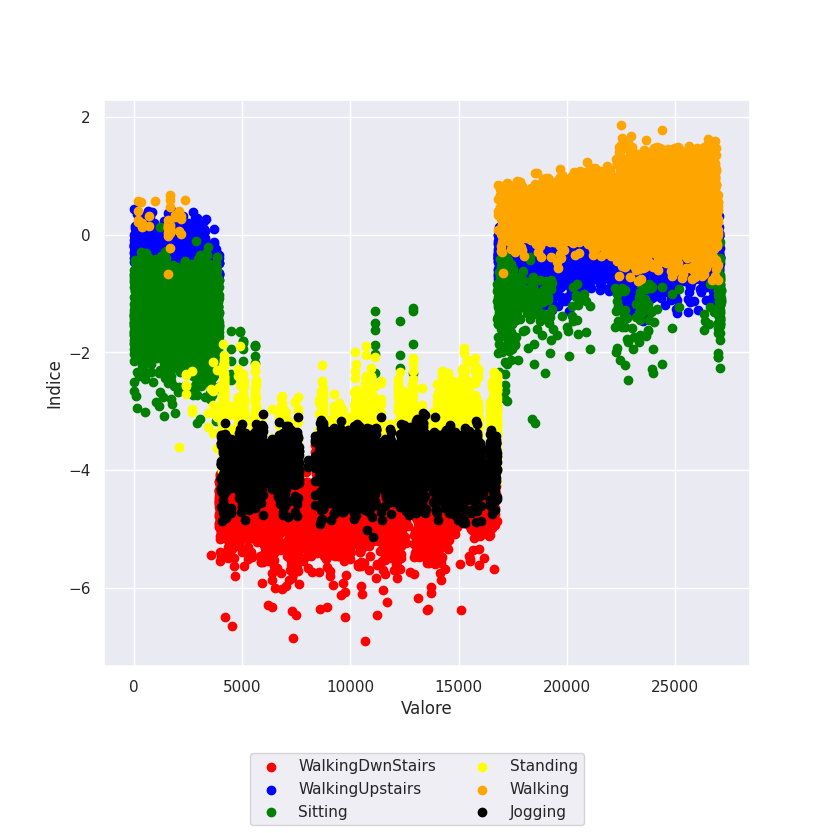
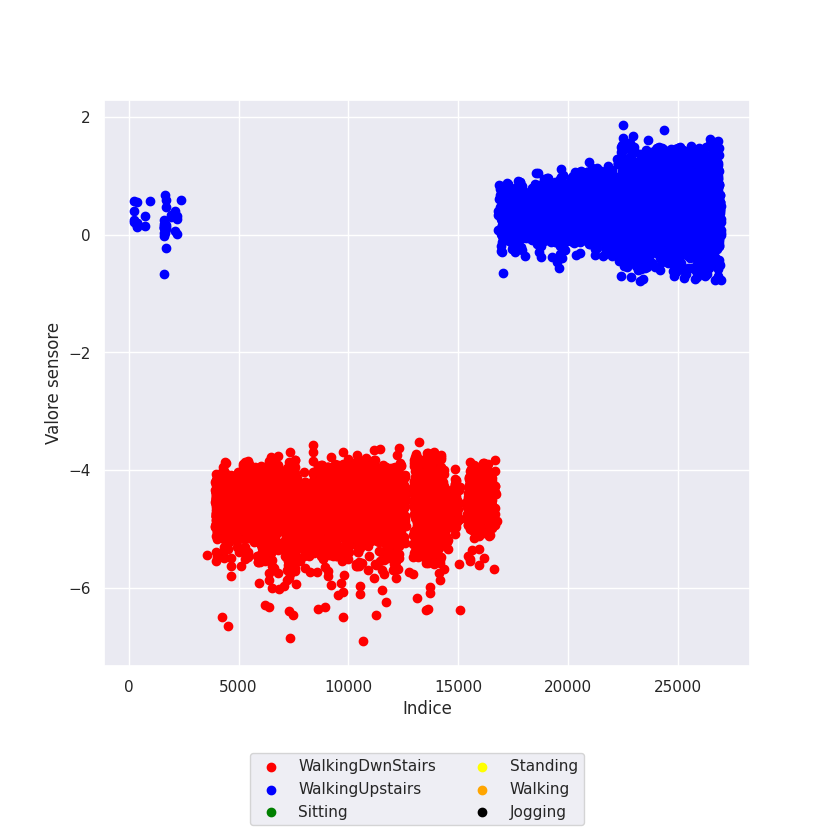
aggiunte spiegazioni sul funzionamento delle classi e grafici riguardanti vecchie esecuzioni degli HMMs

diff --git a/com/markov.py b/com/markov.py
@@ -6,7 +6,6 @@ from scipy import stats as ss
 
 from utility import *
 
-ylabel = 'Indice'
 filename1 = absPath_ + '/immagine/grafico.png'
 filename2 = absPath_ + '/immagine/graficoDistribuzione.png'
 
@@ -15,19 +14,34 @@ mydpi = 96
 
 class HiddeMarkovModels:
 
-    def __init__(self, nSamples):
-        self.ds = Dataset(trainset)
+    def __init__(self, nSamples, dataset_):
+        """
+        nel costruttore della classe viene caricato il dataset che verrà utilizzato
+
+        :param nSamples: int, indica il numero di samples che devono essere utilizzati per la generazione degli HMM
+        :param dataset_: string, indica il nome del dataset che verrà utilizzato dal modello
+        """
+
+        self.ds = Dataset(dataset_)
         self.data = self.ds.toList()
         self.logdata = np.log(self.data)
+        self.nSamples = nSamples
 
+    def train(self):
+        """
+        Metodo di train in cui viene creato il modello e viene allenato sul dataset caricato durante il costruttore
+        :return:
+        """
         # effettua il fitting dei modelli sui dati caricati dal dataset
         print('Creazione del modello e fitting dei dati...')
         self.model = GaussianHMM(n_components=6, n_iter=1000).fit(np.reshape(self.logdata, [len(self.logdata), 1]))
         print('fine fitting')
+
         # classificazione di ogni osservazione come stato 1 o 2 (al momento riconosce solo un tipo di attività)
         print('creazione hidden states')
         self.hidden_states = self.model.predict(np.reshape(self.logdata, [len(self.logdata), 1]))
         print('fine creazione hidden states')
+
         # trova i parametri di un HMM Gaussiano
         self.mus = np.array(self.model.means_)
         self.sigmas = np.array(np.sqrt(np.array([np.diag(self.model.covars_[0]), np.diag(self.model.covars_[1])])))
@@ -37,7 +51,7 @@ class HiddeMarkovModels:
         self.logProb = self.model.score(np.reshape(self.data, [len(self.data), 1]))
 
         # genera nSamples dagli HMM Gaussiani
-        self.samples = self.model.sample(nSamples)
+        self.samples = self.model.sample(self.nSamples)
 
         # riorganizza i mu, i sigma e P in modo che la prima colonna contenga i lower mean (se non già presenti)
         if self.mus[0] > self.mus[1]:
@@ -47,6 +61,14 @@ class HiddeMarkovModels:
             self.hidden_states = 1 - self.hidden_states
 
     def plotScatter(self):
+        """
+        crea un grafico scatter in cui vengono plottati i dati del dataset (asse x = posizione del dato plottato nel dataset,
+        asse y = valore registrato dal sensore stesso) e con il colore del punto viene indicato la categoria di appartenenza
+        di quel dato secondo il sistema
+        Infine salva il grafico
+
+        :return:
+        """
         sns.set()
         fig = plt.figure()
         ax = fig.add_subplot(111)
@@ -74,8 +96,8 @@ class HiddeMarkovModels:
         # decommentare per congiungere tutti i punti sul grafico
         # ax.plot(xs, self.logdata, c='k')
 
-        ax.set_xlabel('Valore')
-        ax.set_ylabel(ylabel)
+        ax.set_xlabel('Indice')
+        ax.set_ylabel('Valore sensore')
         fig.subplots_adjust(bottom=0.2)
         handles, labels = plt.gca().get_legend_handles_labels()
         fig.legend(handles, labels, loc='lower center', ncol=2, frameon=True)
@@ -84,6 +106,11 @@ class HiddeMarkovModels:
         fig.clf()
 
     def plotDistribution(self):
+        """
+        crea il grafico di distribuzione del modello utilizzando i valori mu e sigma dello stesso, teoricamente dovrebbero uscire delle gaussiane,
+        una per ogni hidden state e infine una funzione che comprende tutte le gaussiane caricate
+        :return:
+        """
         # calcolo della distribuzione stazionaria
         eigenvals, eigenvecs = np.linalg.eig(np.transpose(self.P))
         one_eigval = np.argmin(np.abs(eigenvals - 1))
@@ -95,20 +122,32 @@ class HiddeMarkovModels:
         x_1 = np.linspace(self.mus[1] - 4 * self.sigmas[1], self.mus[1] + 4 * self.sigmas[1], 10000)
         fx_1 = pi[1] * ss.norm.pdf(x_1, self.mus[1], self.sigmas[1])
 
+        # x_2 = np.linspace(self.mus[2] - 4 * self.sigmas[2], self.mus[2] + 4 * self.sigmas[2], 10000)
+        # fx_2 = pi[2] * ss.norm.pdf(x_2, self.mus[2], self.sigmas[2])
+
+        # x_3= np.linspace(self.mus[3] - 4 * self.sigmas[3], self.mus[3] + 4 * self.sigmas[1], 10000)
+        # fx_3 = pi[3] * ss.norm.pdf(x_3, self.mus[3], self.sigmas[3])
+
+        # x_4= np.linspace(self.mus[4] - 4 * self.sigmas[4], self.mus[4] + 4 * self.sigmas[4], 10000)
+        # fx_4 = pi[4] * ss.norm.pdf(x_4, self.mus[4], self.sigmas[4])
+
+        # x_5 = np.linspace(self.mus[5] - 4 * self.sigmas[5], self.mus[5] + 4 * self.sigmas[1], 10000)
+        # fx_5 = pi[5] * ss.norm.pdf(x_5, self.mus[5], self.sigmas[5])
+
         x = np.linspace(self.mus[0] - 4 * self.sigmas[0], self.mus[1] + 4 * self.sigmas[1], 10000)
-        fx = pi[0] * ss.norm.pdf(x, self.mus[0], self.sigmas[0]) + \
-             pi[1] * ss.norm.pdf(x, self.mus[1], self.sigmas[1])
+        fx = pi[0] * ss.norm.pdf(x, self.mus[0], self.sigmas[0]) + pi[1] * ss.norm.pdf(x, self.mus[1], self.sigmas[1])
 
         sns.set()
         fig = plt.figure()
         ax = fig.add_subplot(111)
         ax.hist(self.logdata, color='k', alpha=0.5, density=True)
-        l1, = ax.plot(x_0, fx_0, c='r', linewidth=2, label='WalkingDwnStairs Distn')
-        l2, = ax.plot(x_1, fx_1, c='b', linewidth=2, label='NotWalkingDwnStairs Distn')
-        l3, = ax.plot(x, fx, c='k', linewidth=2, label='Combined State Distn')
-        l4, = ax.plot(x_0, fx_0, c='r', linewidth=2, label='WalkingDwnStairs Distn')
-        l5, = ax.plot(x_1, fx_1, c='b', linewidth=2, label='NotWalkingDwnStairs Distn')
-        l6, = ax.plot(x, fx, c='k', linewidth=2, label='Combined State Distn')
+        l1, = ax.plot(x_0, fx_0, c='red', linewidth=2, label='WalkingDwnStairs Distn')
+        l2, = ax.plot(x_1, fx_1, c='blue', linewidth=2, label='WalkingUpStairs Distn')
+        # l3, = ax.plot(x_2, fx_2, c='green', linewidth=2, label='Sitting Distn')
+        # l4, = ax.plot(x_3, fx_3, c='yellow', linewidth=2, label='Standing Distn')
+        # l5, = ax.plot(x_4, fx_4, c='orange', linewidth=2, label='Walking Distn')
+        # l6, = ax.plot(x_5, fx_5, c='black', linewidth=2, label='Jogging Distn')
+        l7, = ax.plot(x, fx, c='cyan', linewidth=2, label='Combined Distn')
 
         fig.subplots_adjust(bottom=0.15)
         handles, labels = plt.gca().get_legend_handles_labels()
@@ -119,6 +158,7 @@ class HiddeMarkovModels:
 
 
 if __name__ == '__main__':
-    hmm = HiddeMarkovModels(100)
+    hmm = HiddeMarkovModels(100, trainset)
+    hmm.train()
     hmm.plotScatter()
     hmm.plotDistribution()

diff --git a/com/utility.py b/com/utility.py
@@ -41,6 +41,10 @@ absPath_ = os.getcwd()
 class Dataset:
 
     def __init__(self, choice):
+        """
+        costruttore della classe Dataset
+        :param choice: string, indica il percorso da utilizzare per caricare il dataset che si è scelto
+        """
         print('Carico il Dataset...')
         self.datasetPath = absPath_ + choice
         # print(self.datasetPath)
@@ -51,28 +55,57 @@ class Dataset:
         # print(self.ds)
 
     def stampaDataset(self):
-        # viene effettuata la stampa del dataset caricato
+        """
+         viene effettuata la stampa del dataset caricato
+        :return: None
+        """
+
         print('Stampa del dataset\n')
         print(self.ds.head())
 
     def stampaTestset(self):
+        """
+         viene effettuata la stampa del dataset caricato che ha subito delle modifiche,
+         come il calcolo della magnitudine
+        :return: None
+        """
         # viene effettuata la stampa del testset
         print('Stampa del testset\n')
         print(self.dsm.head())
 
     def produceMagnitude(self):
+        """
+        metodo utile per accorpare i dati registrati lungo i tre assi dell'accelerometro
+        eleva al quadrato i dato dei singoli assi, li somma e infine effettua la radice quadrata
+        inserendo il risultato in una nuova colonna chiamata userAcceleration.mag
+        :return:
+        """
         self.ds[magnitude] = np.sqrt(
             self.ds[column1 + '.x'] ** 2 + self.ds[column1 + '.y'] ** 2 + self.ds[
                 column1 + '.z'] ** 2)
         # print('Magnitudine aggiunta correttamente nel dataset')
 
     def setTestset(self):
+        """
+        copia semplicemente i dati contenuti nella colonna userAcceleration.mag in un secondo dataset appartenente sempre alla classe
+        :return:
+        """
         self.dsm = self.ds[magnitude]
 
     def getTestset(self):
+        """
+        restituisce il dataset contenente solo la colonna userAcceleration.mag
+        :return:
+        """
         return self.dsm
 
     def toList(self):
+        """
+        serve per convertire il dataset caricato in memoria in una lista, verrà utilizzata per l'elaborazione dei dati (utilizzando la log-likelihood) durante
+        il training del modello
+
+        :return: list, lista di float
+        """
         # return self.dsm.tolist()
         return self.ds.values.tolist()
 
@@ -87,7 +120,8 @@ class Dataset:
 
 def unisciDiversiDataset():
     """
-    funzione utilizzata per ottenere il trainset.csv, semplicemente ho unito tutti i file sub_1.csv presenti in ogni cartella per creare un trainset su cui allenare la ia
+    funzione utilizzata per ottenere il trainset.csv, semplicemente ho concatenato tutti i file sub_1.csv
+    presenti in ogni cartella per creare un trainset su cui allenare il modello
     """
 
     ds0 = Dataset(walkDown)
@@ -126,8 +160,8 @@ def unisciDiversiDataset():
 
 
 if __name__ == '__main__':
-    #unisciDiversiDataset()
+    # unisciDiversiDataset()
     ds = Dataset(trainset)
 
     lista = ds.toList()
-    print('stampo dataset senza funzione\n', lista) #vuota per ora
+    print('stampo dataset senza funzione\n', lista)  # vuota per ora
